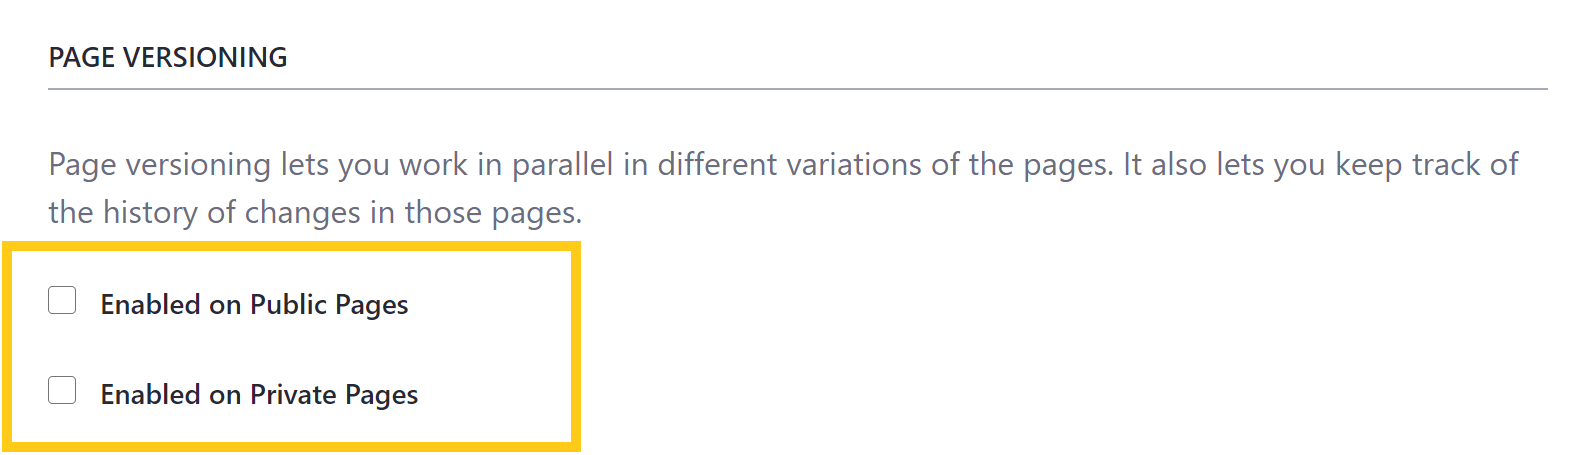
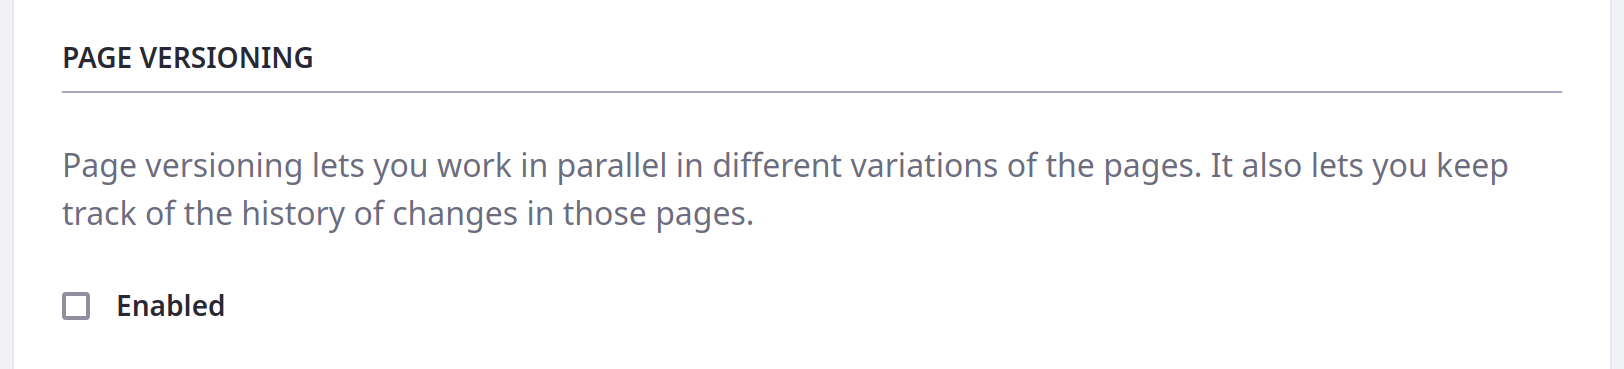
LRDOCS-10442 updates Configuring Local/Remote Live Staging

Changed region(s): [[0.0, 0.3279, 0.9518, 1.0], [0.0307, 0.0894, 0.9825, 0.2087], [0.0307, 0.2385, 0.9518, 0.2683]]

diff --git a/docs/dxp/latest/en/site-building/publishing-tools/staging/configuring-remote-live-staging.md b/docs/dxp/latest/en/site-building/publishing-tools/staging/configuring-remote-live-staging.md
@@ -100,9 +100,9 @@ Once you've prepared your Liferay servers, follow these steps to set up Remote L
 
 1. Determine whether to define manually the remote URL used for the Site or Asset Library.
 
-1. (For Sites only) Select whether you want *Page Versioning* enabled on Public and/or Private Pages.
+1. (For Sites only) Select whether you want *Page Versioning* enabled.
 
-   ![Enable Page Versioning for your Private and Public Page sets.](./configuring-remote-live-staging/images/03.png)
+   ![Enable Page Versioning.](./configuring-local-live-staging/images/03.png)
 
 1. Select the *data* and *content* types you want to stage.
 

diff --git a/docs/dxp/latest/en/site-building/publishing-tools/staging/configuring-local-live-staging.md b/docs/dxp/latest/en/site-building/publishing-tools/staging/configuring-local-live-staging.md
@@ -12,9 +12,9 @@ With Local Live Staging, both your Staging and Live environments are hosted on t
 
    ![Select Local Live.](./configuring-local-live-staging/images/02.png)
 
-1. Select whether you want *Page Versioning* enabled on Public and/or Private Page sets.
+1. (For Sites only) Select whether you want *Page Versioning* enabled.
 
-   ![Enable Page Versioning for your Private and Public Page sets.](./configuring-local-live-staging/images/03.png)
+   ![Enable Page Versioning.](./configuring-local-live-staging/images/03.png)
 
 1. Select the data and content types you want to stage.
 
